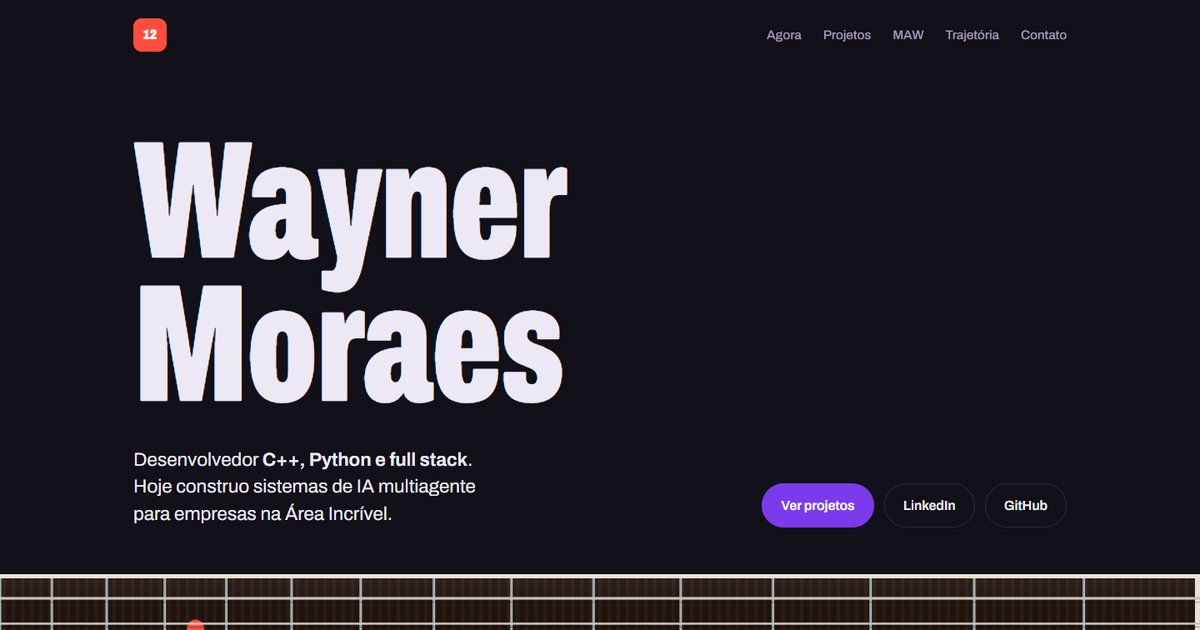
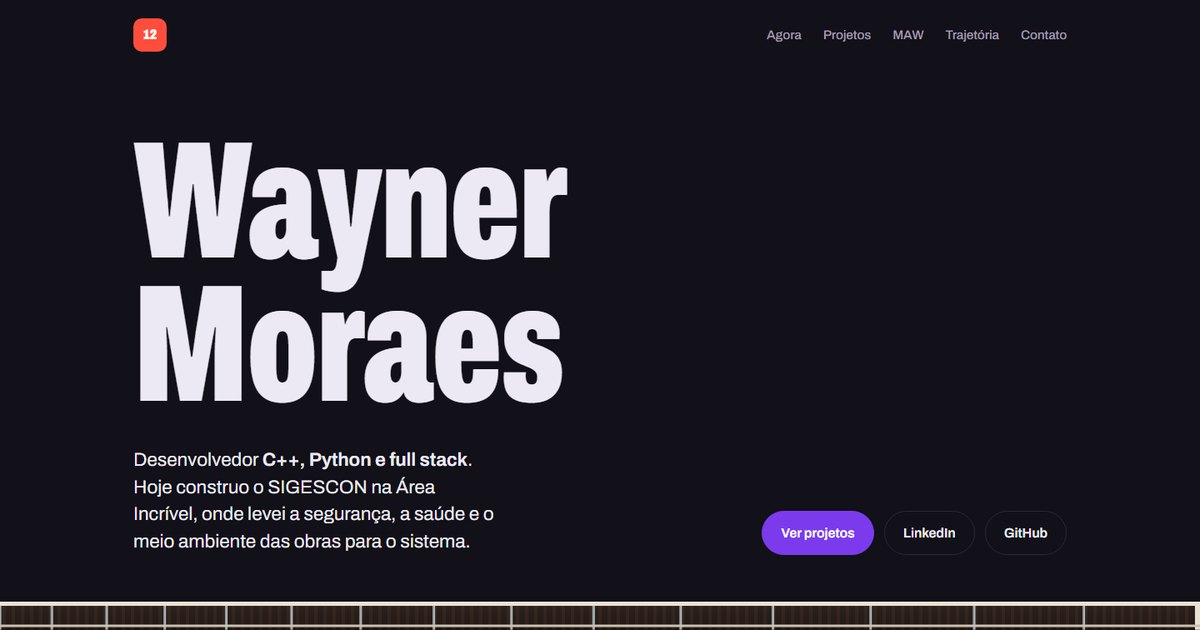
Manda Currículo em "Sites no ar", SSMA no topo do Agora e dados atualizados
Sites no ar e Projetos
- Manda Currículo entra em "Sites no ar" (print 800x500 em assets/sites/) e
  ganha título e texto em data/projects.json
- O conteúdo escrito no HTML (sem JavaScript e para buscadores) segue os
  fixados atuais do GitHub e os repositórios mais recentes

Agora
- O SSMA (Saúde, Segurança e Meio Ambiente das obras) abre a seção: o que
  foi feito, os números e o dia de uma pessoa na obra pelo SSMA
- Entregas levantadas dos commits e PRs no main: SIGESCON 1.054 commits e
  207 PRs, SISCAPE 6 e 6, SISCODE 12 e 3 (card novo); 1.072 commits e 216
  PRs no total
- Apresentação, Trajetória, descrição e imagem de compartilhamento com o
  texto novo

Gerador da atividade ao vivo
- O github-state.json ficou vazio em 17/10 (gravação interrompida) e desde
  então o gerador quebrava em toda execução: o site mostrava os dados de
  outubro
- Arquivos gravados de forma atômica (temporário + os.replace) e estado
  ilegível recomeça a contagem em vez de travar; o watch.json do vigia também

diff --git a/index.html b/index.html
@@ -7,9 +7,9 @@
 <script src="assets/js/guard.js"></script>
 <meta name="viewport" content="width=device-width, initial-scale=1.0">
 <title>Wayner Moraes</title>
-<meta name="description" content="Wayner Moraes — desenvolvedor C++, Python e full stack. Sistemas multiagente, workflows duráveis e integrações com ERPs na Área Incrível.">
+<meta name="description" content="Wayner Moraes — desenvolvedor C++, Python e full stack. Na Área Incrível, construí o SSMA das obras no SIGESCON: segurança, saúde e meio ambiente, com integrações a ERPs e IA.">
 <meta property="og:title" content="Wayner Moraes — Desenvolvedor C++, Python e full stack">
-<meta property="og:description" content="Sistemas multiagente com CrewAI, workflows com Temporal e integrações MCP com ERPs. Engenharia de Computação, FHO.">
+<meta property="og:description" content="O SSMA das obras no SIGESCON, integrações com Sankhya, Sienge e ELO, agentes com CrewAI e workflows com Temporal. Engenharia de Computação, FHO.">
 <meta property="og:type" content="website">
 <meta property="og:url" content="https://waynermoraes12.github.io/">
 <meta property="og:image" content="https://waynermoraes12.github.io/assets/og.jpg">
@@ -57,7 +57,7 @@
   <div class="wrap hero" id="topo">
     <h1>Wayner<br>Moraes</h1>
     <div class="hero-meta">
-      <p class="hero-lede">Desenvolvedor <strong>C++, Python e full stack</strong>. Hoje construo sistemas de IA multiagente para empresas na Área Incrível.</p>
+      <p class="hero-lede">Desenvolvedor <strong>C++, Python e full stack</strong>. Hoje construo o SIGESCON na Área Incrível, onde levei a segurança, a saúde e o meio ambiente das obras para o sistema.</p>
       <div class="actions">
         <a class="btn btn-solid" href="#projetos">Ver projetos</a>
         <a class="btn btn-line" href="https://www.linkedin.com/in/wayner-moraes-8494451a3/" target="_blank" rel="noopener noreferrer">LinkedIn</a>
@@ -80,33 +80,34 @@
   <section id="agora" class="wrap">
     <div class="sec-head">
       <h2>Agora</h2>
-      <div class="company"><img src="assets/area-incrivel.png" alt="Logo da Área Incrível" width="58" height="58"><p><span class="kicker">Desenvolvedor Júnior na Área Incrível, desde agosto de 2026.</span><br>Incorporadora do Grupo MNGT, em Rio Claro. Trabalho no SIGESCON, uma plataforma que troca o preenchimento de formulários corporativos por uma conversa em linguagem natural.</p></div>
+      <div class="company"><img src="assets/area-incrivel.png" alt="Logo da Área Incrível" width="58" height="58"><p><span class="kicker">Desenvolvedor Júnior na Área Incrível, desde agosto de 2026.</span><br>Incorporadora do Grupo MNGT, em Rio Claro. Trabalho no SIGESCON, o sistema de gestão e construção do grupo, e desde outubro cuido do SSMA: a Saúde, a Segurança e o Meio Ambiente das obras.</p></div>
     </div>
 
     <div class="company-live" id="companyLive" hidden></div>
 
     <div class="now">
       <div>
-        <h3>SIGESCON: o funcionário descreve o que precisa e a IA abre o processo certo.</h3>
-        <p class="role">RH, TI, Jurídico, Compras e outros departamentos numa única conversa.</p>
-        <p>Participo da arquitetura de um sistema multiagente com CrewAI, dos workflows duráveis em Temporal e das integrações via MCP (Model Context Protocol) com os sistemas que a empresa já usa: Sankhya, ELO/OpenProject e Sienge, além de armazenamento em Nextcloud e MinIO/Backblaze B2.</p>
-        <p>Também ajudo na modelagem de processos e na curadoria de campos obrigatórios, que é o que faz a IA pedir exatamente a informação que cada departamento precisa.</p>
+        <h3>SSMA: a segurança, a saúde e o meio ambiente de cada obra, dentro do SIGESCON.</h3>
+        <p class="role">Construí a área do zero, do primeiro cadastro de EPI ao painel do dia da obra.</p>
+        <p>O SSMA trabalhava com fichas e planilhas: entrega de EPI, treinamentos de NR, ordens de serviço, inspeções e investigação de acidentes. Levei tudo isso para o SIGESCON, com a assinatura do colaborador no tablet, a inspeção feita pelo celular e o PDF arquivado sozinho.</p>
+        <p>Na <b>Segurança do Trabalho</b>: EPI com estoque por depósito, NRs exigidas por função, Ordem de Serviço, APR por atividade, Permissão de Trabalho, inspeções, EPC, extintores, placas e rotas de fuga, plano de emergência (NR-23) e a liberação de serviços com risco antes do início. Na <b>Saúde</b>: ASO, atestados e afastamentos com sigilo, ruído e agentes (NR-09) e teste de bafômetro. No <b>Meio Ambiente</b>: resíduos e MTR, produtos químicos e FDS, licenças e inspeções ambientais.</p>
+        <p>O SSMA também conversa com o resto do sistema. Quem está com NR, ASO ou EPI em falta não é alocado nem liberado no turno, um risco grave e iminente trava os pacotes de trabalho daquela frente, e a admissão, a transferência e a saída de cada pessoa passam pela conferência do SSMA. As ocorrências vão do registro rápido à investigação, com RIAT, CAT e planos de ação.</p>
         <div class="facts">
-          <div class="fact"><b>16</b><span>agentes especializados</span></div>
-          <div class="fact"><b>350+</b><span>processos mapeados em 10 departamentos</span></div>
-          <div class="fact"><b>240</b><span>cargos organizacionais analisados</span></div>
+          <div class="fact"><b>110</b><span>pull requests de SSMA mergeadas</span></div>
+          <div class="fact"><b>50+</b><span>módulos no backend do SSMA</span></div>
+          <div class="fact"><b>40</b><span>telas, do computador ao tablet da obra</span></div>
         </div>
-        <p class="stack-line"><b>Stack:</b> Python, FastAPI, SQLAlchemy assíncrono, PostgreSQL, Redis, Next.js e TypeScript. TDD com pytest e testcontainers.</p>
+        <p class="stack-line"><b>Stack:</b> Python, FastAPI, SQLAlchemy assíncrono, PostgreSQL, Next.js, React e TypeScript. Testes com pytest e testcontainers em cada entrega.</p>
       </div>
 
-      <div class="flow" aria-label="Caminho de uma solicitação no SIGESCON">
-        <p class="flow-title">O caminho de uma solicitação</p>
+      <div class="flow" aria-label="O dia de uma pessoa na obra, pelo SSMA">
+        <p class="flow-title">O dia de uma pessoa na obra, pelo SSMA</p>
         <ol>
-          <li><b>Mensagem em linguagem natural</b><span>“Preciso de um notebook para o novo analista.”</span></li>
-          <li><b>Agente de roteamento</b><span>Identifica o departamento responsável entre os 10 mapeados.</span></li>
-          <li><b>Triagem e mapeamento de campos</b><span>Agentes extraem o que já foi dito e perguntam só o que falta.</span></li>
-          <li class="hl"><b>Workflow durável no Temporal</b><span>Aprovações humanas com <code>wait_condition</code> e <code>signal</code>, sem perder estado.</span></li>
-          <li><b>Integração via MCP</b><span>O pedido chega ao ERP ou à ferramenta de gestão: Sankhya, OpenProject, Sienge.</span></li>
+          <li><b>Admissão e integração</b><span>A pessoa chega do cadastro de pessoas e o SSMA confere ASO, NRs da função e o treinamento de integração.</span></li>
+          <li><b>EPI no tablet</b><span>Entrega assinada pelo colaborador, com foto, CA do equipamento e baixa no estoque da obra.</span></li>
+          <li class="hl"><b>“Pode trabalhar?”</b><span>Antes do serviço com risco, a Segurança libera: Permissão de Trabalho, APR e NRs conferidas. Sem isso, o turno não abre.</span></li>
+          <li><b>Campo</b><span>Inspeções pelo celular, DDS, apontamentos e ocorrências, com aviso na hora para quem precisa tratar.</span></li>
+          <li><b>Painel e saída</b><span>O Painel do SSMA mostra o dia da obra e o que vai vencer. Na saída, EPI devolvido, ASO demissional e PPP entregue.</span></li>
         </ol>
       </div>
     </div>
@@ -114,29 +115,43 @@
     <div class="delivered">
       <div class="delivered-head">
         <h3>O que ajudei a construir lá</h3>
-        <p>Levantado dos meus commits e PRs: <b>150 commits</b> e <b>14 pull requests mergeadas</b> desde agosto.</p>
+        <p>Levantado dos meus commits e PRs: <b>1.072 commits</b> e <b>216 pull requests mergeadas</b> desde agosto.</p>
       </div>
       <div class="deliv-grid">
         <article class="deliv">
-          <header><h4>SIGESCON</h4><span>146 commits, 10 PRs</span></header>
+          <header><h4>SIGESCON</h4><span>1.054 commits, 207 PRs</span></header>
           <ul id="delivSig">
-            <li><b>Módulo de Solicitações.</b> Os 353 processos mapeados rodando pelo fluxo, com ficha editável, arquivos por etapa, apoio da IA no preenchimento e notificações.</li>
-            <li><b>Integração com o Sankhya.</b> Quem responde cada solicitação passou a vir do cadastro oficial de pessoas, com dados reais do ERP no lugar do fluxo legado de Compras.</li>
-            <li><b>Academia interna.</b> Mentoria por rodízio entre desenvolvedores, com regras de quem mentora e quem é mentorado.</li>
-            <li><b>Servidor de arquivos.</b> Uma pasta por empresa, criada a partir do cadastro.</li>
-            <li><b>Agentes e qualidade.</b> Troca do formato da conversa com o modelo para JSON, correção de rascunhos duplicados e manutenção das migrations do banco.</li>
+            <li><b>SSMA.</b> A Segurança, a Saúde e o Meio Ambiente das obras, de ponta a ponta. É a maior parte do que fiz: mais da metade das minhas PRs.</li>
+            <li><b>Solicitações.</b> Os 353 processos mapeados rodando pelo fluxo, com ficha editável, prioridade com prazo por etapa, apoio da IA no preenchimento e cada chamado virando pacote de trabalho no ELO (OpenProject).</li>
+            <li><b>Integrações com ERPs.</b> Quem responde cada solicitação vem do cadastro oficial de pessoas e do Sankhya, o Plano de Contas junta Sankhya e Sienge numa tela só e os saldos bancários do grupo entraram no SIGESCON.</li>
+            <li><b>Presença e Gente e Gestão.</b> Presença e falta pelo reconhecimento facial da portaria, apuração diária por obra e cobrança de documentos pendentes de cada pessoa.</li>
+            <li><b>Cadastros corporativos.</b> Empresas do grupo, cada uma com sua pasta no servidor de arquivos, Ativos, Frota, Linhas de celular, Prestadores, Seguros, Contratos, Contas de utilidades e Planos de manutenção.</li>
+            <li><b>Incorporação.</b> Informações do Município, os cadastros da Incorporação e um agente de IA de apoio à equipe.</li>
+            <li><b>Conversas, E-mail e Calendário.</b> Tudo no menu superior, com aviso próprio, silenciar, arquivar e convites de agenda.</li>
+            <li><b>Viagens e Books.</b> Solicitação de Viagem Corporativa com aviso aos aprovadores e o Comitê de Aprovação dos books de investimento.</li>
+            <li><b>Solicitações de Sistemas.</b> Pedidos à equipe de sistemas feitos direto do SIGESCON, com o tipo escolhido pela IA e aviso no Discord.</li>
+            <li><b>IA e qualidade.</b> Modelos pelo gateway de IA da empresa, conversa com o modelo trocada para JSON, ajuda contextual em conversa sobre a tela atual e a academia interna de mentoria por rodízio.</li>
           </ul>
           <button class="more-btn" type="button" data-more="delivSig" data-label="Ver todas as entregas" data-less="Ver menos entregas">Ver todas as entregas</button>
         </article>
-        <article class="deliv">
-          <header><h4>SISCAPE</h4><span>4 commits, 4 PRs</span></header>
-          <p>Plataforma de pessoas e papéis do grupo.</p>
-          <ul>
-            <li><b>Navegação.</b> Barra lateral nas telas de pessoas.</li>
-            <li><b>MCP de pessoas.</b> Dados simulados para o servidor MCP do hub de pessoas, usados no desenvolvimento dos agentes.</li>
-            <li><b>Catálogo de papéis.</b> Migration que adiciona o papel de Desenvolvedor.</li>
-          </ul>
-        </article>
+        <div class="deliv-side">
+          <article class="deliv">
+            <header><h4>SISCAPE</h4><span>6 commits, 6 PRs</span></header>
+            <p>Plataforma de pessoas e papéis do grupo.</p>
+            <ul>
+              <li><b>Navegação.</b> Barra lateral nas telas de pessoas.</li>
+              <li><b>MCP de pessoas.</b> Dados simulados para o servidor MCP do hub de pessoas, usados no desenvolvimento dos agentes.</li>
+              <li><b>Catálogo de papéis.</b> Migrations com os papéis de Desenvolvedor e de Política.</li>
+            </ul>
+          </article>
+          <article class="deliv">
+            <header><h4>SISCODE</h4><span>12 commits, 3 PRs</span></header>
+            <p>Plataforma de desenvolvimento de software da empresa.</p>
+            <ul>
+              <li><b>Ponte com o SIGESCON.</b> As Solicitações de Sistemas chegam com anexos, quem pediu, tipo e etiqueta de origem.</li>
+            </ul>
+          </article>
+        </div>
       </div>
       <p class="note">Os repositórios da empresa são privados. Aqui aparece só um resumo do que entreguei, sem código nem dados internos.</p>
     </div>
@@ -161,11 +176,25 @@
     </div>
 
     <div class="featured" id="projFeatured">
-      <a class="proj" href="https://github.com/WaynerMoraes12/FastParse-CLI" target="_blank" rel="noopener noreferrer">
-        <span class="lang"><i class="dot dot-cpp"></i>C++17</span>
-        <h3>FastParse-CLI</h3>
-        <p>Ferramenta de linha de comando que varre diretórios grandes e extrai métricas de palavras-chave em paralelo. Usa <code>std::async</code>, <code>std::mutex</code> com RAII e <code>std::string_view</code> para evitar alocações.</p>
-        <div class="metric"><b>~1,7 s</b><span>para processar milhares de ocorrências em vários arquivos</span></div>
+      <a class="proj" href="https://github.com/WaynerMoraes12/street-culture-engine" target="_blank" rel="noopener noreferrer">
+        <span class="lang"><i class="dot dot-cpp"></i>C++20, DSP, simulação</span>
+        <h3>Street Culture Engine</h3>
+        <p>Basquete, tênis e hip-hop simulados do zero em C++20: sintetizador de beats, analisador de rimas bilíngue, motor de basquete e uma bolsa de sneakers, todos conectados.</p>
+        <div class="metric"><b>0</b><span>dependências: só C++20 padrão</span></div>
+        <span class="open">Ver repositório</span>
+      </a>
+      <a class="proj" href="https://github.com/WaynerMoraes12/snailtrail" target="_blank" rel="noopener noreferrer">
+        <span class="lang"><i class="dot dot-cpp"></i>C++20, Python, MySQL</span>
+        <h3>SnailTrail</h3>
+        <p>Lê o slow query log do MySQL, agrupa as consultas, ranqueia pelo tempo que custam e sugere o índice exato. Motor em C++20, dashboard em Python e laboratório em Docker.</p>
+        <div class="metric"><b>~2 GB/s</b><span>de log analisado em paralelo num notebook</span></div>
+        <span class="open">Ver repositório</span>
+      </a>
+      <a class="proj" href="https://github.com/WaynerMoraes12/Roadie" target="_blank" rel="noopener noreferrer">
+        <span class="lang"><i class="dot dot-py"></i>Python, agentes de IA</span>
+        <h3>Roadie</h3>
+        <p>O agente de testes da MAW: a cada sprint testa tudo de ponta a ponta, no main e em cada branch aberta, e entrega um PDF com os achados, sem nunca alterar a MAW.</p>
+        <div class="metric"><b>100%</b><span>do catálogo de funcionalidades em cada relatório</span></div>
         <span class="open">Ver repositório</span>
       </a>
       <a class="proj" href="https://github.com/WaynerMoraes12/mngt-rag-challenge" target="_blank" rel="noopener noreferrer">
@@ -175,45 +204,48 @@
         <div class="metric"><b>1</b><span>comando para subir tudo: <code>docker compose up</code></span></div>
         <span class="open">Ver repositório</span>
       </a>
-      <a class="proj" href="https://github.com/WaynerMoraes12/logistrack-ia" target="_blank" rel="noopener noreferrer">
-        <span class="lang"><i class="dot dot-js"></i>Node.js, Python, Redis</span>
-        <h3>LogisTrack IA</h3>
-        <p>Pipeline orientado a eventos: telemetria de caminhões entra por webhook, passa pelo Redis Pub/Sub e um worker de IA em Python detecta anomalias e sugere ações. Dashboard em tempo real com Socket.io.</p>
-        <div class="metric"><b>4</b><span>serviços desacoplados, do webhook ao dashboard</span></div>
-        <span class="open">Ver repositório</span>
-      </a>
     </div>
 
     <div class="more" id="projMore">
-      <a class="row" href="https://github.com/WaynerMoraes12/HighFreqTracker" target="_blank" rel="noopener noreferrer">
-        <span class="row-name">HighFreqTracker</span>
-        <span class="row-desc">Scanner assíncrono de mercado com asyncio e aiohttp. Várias requisições concorrentes à API do Steam Market em cerca de 295 ms.</span>
-        <span class="row-tech">Python, asyncio</span>
+      <a class="row" href="https://github.com/WaynerMoraes12/manda-curriculo" target="_blank" rel="noopener noreferrer">
+        <span class="row-name">Manda Currículo (site)</span>
+        <span class="row-desc">Site e instalador do Manda Currículo, um programa gratuito para Windows que se candidata às vagas pela pessoa, com o currículo ajustado para cada vaga e os dados só no PC.</span>
+        <span class="row-tech">HTML, CSS, JavaScript</span>
       </a>
-      <a class="row" href="https://github.com/WaynerMoraes12/ecommerce-tracker-etl" target="_blank" rel="noopener noreferrer">
-        <span class="row-name">E-commerce Tracker ETL</span>
-        <span class="row-desc">Coleta preços de sites dinâmicos com Playwright, trata com Pandas, guarda histórico no PostgreSQL e mostra tudo num dashboard Streamlit.</span>
-        <span class="row-tech">Python, Playwright, PostgreSQL</span>
+      <a class="row" href="https://github.com/WaynerMoraes12/Site-oficial-MAW" target="_blank" rel="noopener noreferrer">
+        <span class="row-name">Site oficial da MAW</span>
+        <span class="row-desc">Página de apresentação e download da MAW, em três idiomas, com a interface real e o roadmap.</span>
+        <span class="row-tech">Astro, TypeScript</span>
+      </a>
+      <a class="row" href="https://github.com/WaynerMoraes12/ego-windows" target="_blank" rel="noopener noreferrer">
+        <span class="row-name">EGO (site)</span>
+        <span class="row-desc">Site e instalador do EGO, um centro de comando para Windows com tarefas, foco, notas, saúde, finanças e IA.</span>
+        <span class="row-tech">HTML, CSS, JavaScript</span>
+      </a>
+      <a class="row" href="https://github.com/WaynerMoraes12/clerk-estudo" target="_blank" rel="noopener noreferrer">
+        <span class="row-name">Estudo de Clerk</span>
+        <span class="row-desc">Estudo de autenticação com Clerk em Python: gestão de usuários pela API e webhooks verificados com Svix numa API FastAPI.</span>
+        <span class="row-tech">Python, FastAPI, Clerk</span>
+      </a>
+      <a class="row" href="https://github.com/WaynerMoraes12/cls-outlet-v2" target="_blank" rel="noopener noreferrer">
+        <span class="row-name">CLS Outlet</span>
+        <span class="row-desc">Landing page mobile-first da loja em que trabalhei, com foco em levar o cliente direto ao Mercado Livre, às lojas físicas e ao WhatsApp.</span>
+        <span class="row-tech">React, Vite, Tailwind</span>
+      </a>
+      <a class="row" href="https://github.com/WaynerMoraes12/logistrack-ia" target="_blank" rel="noopener noreferrer">
+        <span class="row-name">LogisTrack IA</span>
+        <span class="row-desc">Pipeline orientado a eventos: telemetria de caminhões entra por webhook, passa pelo Redis Pub/Sub e um worker de IA em Python detecta anomalias e sugere ações. Dashboard em tempo real com Socket.io.</span>
+        <span class="row-tech">Node.js, Python, Redis</span>
       </a>
       <a class="row" href="https://github.com/WaynerMoraes12/riot-analytics-api" target="_blank" rel="noopener noreferrer">
         <span class="row-name">Riot Analytics</span>
         <span class="row-desc">API em FastAPI que consome a Riot Games API e entrega estatísticas ranqueadas de jogadores para um dashboard interativo.</span>
         <span class="row-tech">FastAPI, HTTPX, Streamlit</span>
       </a>
-      <a class="row" href="https://github.com/WaynerMoraes12/GeradorDeTreinos-FitLang" target="_blank" rel="noopener noreferrer">
-        <span class="row-name">FitLang</span>
-        <span class="row-desc">Uma linguagem própria para escrever rotinas de treino, com analisador léxico, sintático e semântico, interface em Tkinter e exportação para PDF.</span>
-        <span class="row-tech">Python, compiladores</span>
-      </a>
-      <a class="row" href="https://github.com/WaynerMoraes12/AnaliseDeCashBack_ComBancoDeDados" target="_blank" rel="noopener noreferrer">
-        <span class="row-name">Análise de Cashback</span>
-        <span class="row-desc">Case técnico de performance de e-commerce: API em Express sobre SQL Server e dashboard em React com Recharts.</span>
-        <span class="row-tech">React, Node.js, SQL Server</span>
-      </a>
-      <a class="row" href="https://github.com/WaynerMoraes12/cls-outlet-v2" target="_blank" rel="noopener noreferrer">
-        <span class="row-name">CLS Outlet</span>
-        <span class="row-desc">Landing page mobile-first da loja em que trabalhei, com foco em levar o cliente direto ao Mercado Livre, às lojas físicas e ao WhatsApp.</span>
-        <span class="row-tech">React, Vite, Tailwind</span>
+      <a class="row" href="https://github.com/WaynerMoraes12/ecommerce-tracker-etl" target="_blank" rel="noopener noreferrer">
+        <span class="row-name">E-commerce Tracker ETL</span>
+        <span class="row-desc">Coleta preços de sites dinâmicos com Playwright, trata com Pandas, guarda histórico no PostgreSQL e mostra tudo num dashboard Streamlit.</span>
+        <span class="row-tech">Python, Playwright, PostgreSQL</span>
       </a>
     </div>
     <button class="more-btn" type="button" data-more="projMore" data-label="Ver mais projetos" data-less="Ver menos projetos">Ver mais projetos</button>
@@ -327,7 +359,7 @@
         <div>
           <h3>Desenvolvedor Júnior</h3>
           <p class="where">Área Incrível</p>
-          <p>SIGESCON: agentes CrewAI, workflows em Temporal com aprovação humana e integrações MCP com ERPs e armazenamento de documentos.</p>
+          <p>SIGESCON: construí o SSMA das obras, com segurança, saúde e meio ambiente de ponta a ponta, além de Solicitações com IA, cadastros corporativos e integrações com Sankhya, Sienge e ELO.</p>
         </div>
       </li>
       <li class="tl">

diff --git a/assets/css/site.css b/assets/css/site.css
@@ -340,7 +340,8 @@ section { padding-block: clamp(72px, 10vw, 128px) 0; }
 .delivered-head h3 { margin: 0; font-size: clamp(1.5rem, 2.4vw, 1.9rem); font-weight: 750; line-height: 1.15; }
 .delivered-head p { margin: 0; color: var(--graphite); }
 .delivered-head p b { color: var(--violet); }
-.deliv-grid { display: grid; grid-template-columns: 1.5fr 1fr; gap: 20px; }
+.deliv-grid { display: grid; grid-template-columns: 1.5fr 1fr; gap: 20px; align-items: start; }
+.deliv-side { display: grid; gap: 20px; }
 .deliv { background: var(--panel); border: 1px solid var(--rule); border-radius: 14px; padding: 24px; }
 .deliv header { display: flex; justify-content: space-between; align-items: baseline; gap: 12px; margin-bottom: 6px; }
 .deliv h4 { margin: 0; font-size: 1.3rem; font-weight: 800; }

diff --git a/scripts/github_activity.py b/scripts/github_activity.py
@@ -208,11 +208,24 @@ def fresh_state() -> dict:
 
 def load_state() -> dict:
     if STATE_PATH.exists():
-        old = json.loads(STATE_PATH.read_text(encoding="utf-8"))
-        if old.get("version") == STATE_VERSION and old.get("catalog") == CATALOG_HASH:
+        try:
+            old = json.loads(STATE_PATH.read_text(encoding="utf-8"))
+        except ValueError:
+            # Arquivo vazio ou cortado (o PC desligou no meio da gravação): sem isso o gerador
+            # quebraria em toda execução, para sempre. Recomeça a contagem.
+            print("Estado ilegível (arquivo vazio ou cortado): recontando tudo do zero.")
+            return fresh_state()
+        if isinstance(old, dict) and old.get("version") == STATE_VERSION and old.get("catalog") == CATALOG_HASH:
             return {**fresh_state(), **old}
         print("Catálogo de ferramentas mudou (ou estado antigo): recontando tudo do zero.")
     return fresh_state()
+
+
+def write_atomic(path: Path, text: str) -> None:
+    """Grava num arquivo temporário e troca de uma vez: o arquivo nunca fica pela metade."""
+    tmp = path.with_name(path.name + ".tmp")
+    tmp.write_text(text, encoding="utf-8")
+    os.replace(tmp, path)
 
 
 def bump(state: dict, tech_ids: set[str], when: str, repo: str):
@@ -656,8 +669,8 @@ def main() -> int:
                 out[block] = prev[block]
     leak_guard(out, state, privates)
     OUT_DIR.mkdir(parents=True, exist_ok=True)
-    STATE_PATH.write_text(json.dumps(state, ensure_ascii=False, indent=1) + "\n", encoding="utf-8")
-    OUT_PATH.write_text(json.dumps(out, ensure_ascii=False, indent=1) + "\n", encoding="utf-8")
+    write_atomic(STATE_PATH, json.dumps(state, ensure_ascii=False, indent=1) + "\n")
+    write_atomic(OUT_PATH, json.dumps(out, ensure_ascii=False, indent=1) + "\n")
     print(f"feed={len(out['feed'])} skills={len(skills)} promovidas={sum(s['promoted'] for s in skills)} "
           f"privados={len(privates)} detalhes_usados={MAX_DETAILS - budget} completo={done} stats={out['stats']}")
     return 0

diff --git a/scripts/watch_github.py b/scripts/watch_github.py
@@ -127,7 +127,12 @@ def check(force: bool = False) -> None:
         return
     LOCK.write_text(str(os.getpid()), encoding="utf-8")
     try:
-        state = json.loads(STATE.read_text(encoding="utf-8")) if STATE.exists() else {}
+        try:
+            state = json.loads(STATE.read_text(encoding="utf-8")) if STATE.exists() else {}
+        except ValueError:
+            state = {}  # arquivo cortado: publica de novo e regrava
+        if not isinstance(state, dict):
+            state = {}
         fp, now = fingerprint(), time.time()
         if not fp.strip("|"):
             log("sem resposta do GitHub (sem internet ou gh deslogado)")
@@ -144,7 +149,9 @@ def check(force: bool = False) -> None:
             state.update(content_key=key, published_at=now)
             log("publicado" + (" (novidade)" if changed else " (rotina)"))
         state["fingerprint"] = fp
-        STATE.write_text(json.dumps(state), encoding="utf-8")
+        tmp = STATE.with_name(STATE.name + ".tmp")
+        tmp.write_text(json.dumps(state), encoding="utf-8")
+        os.replace(tmp, STATE)  # troca de uma vez: o arquivo nunca fica pela metade
     except Exception as e:  # noqa: BLE001 - a tarefa agendada não pode quebrar
         log(f"erro: {type(e).__name__}: {str(e)[:200]}")
     finally:
